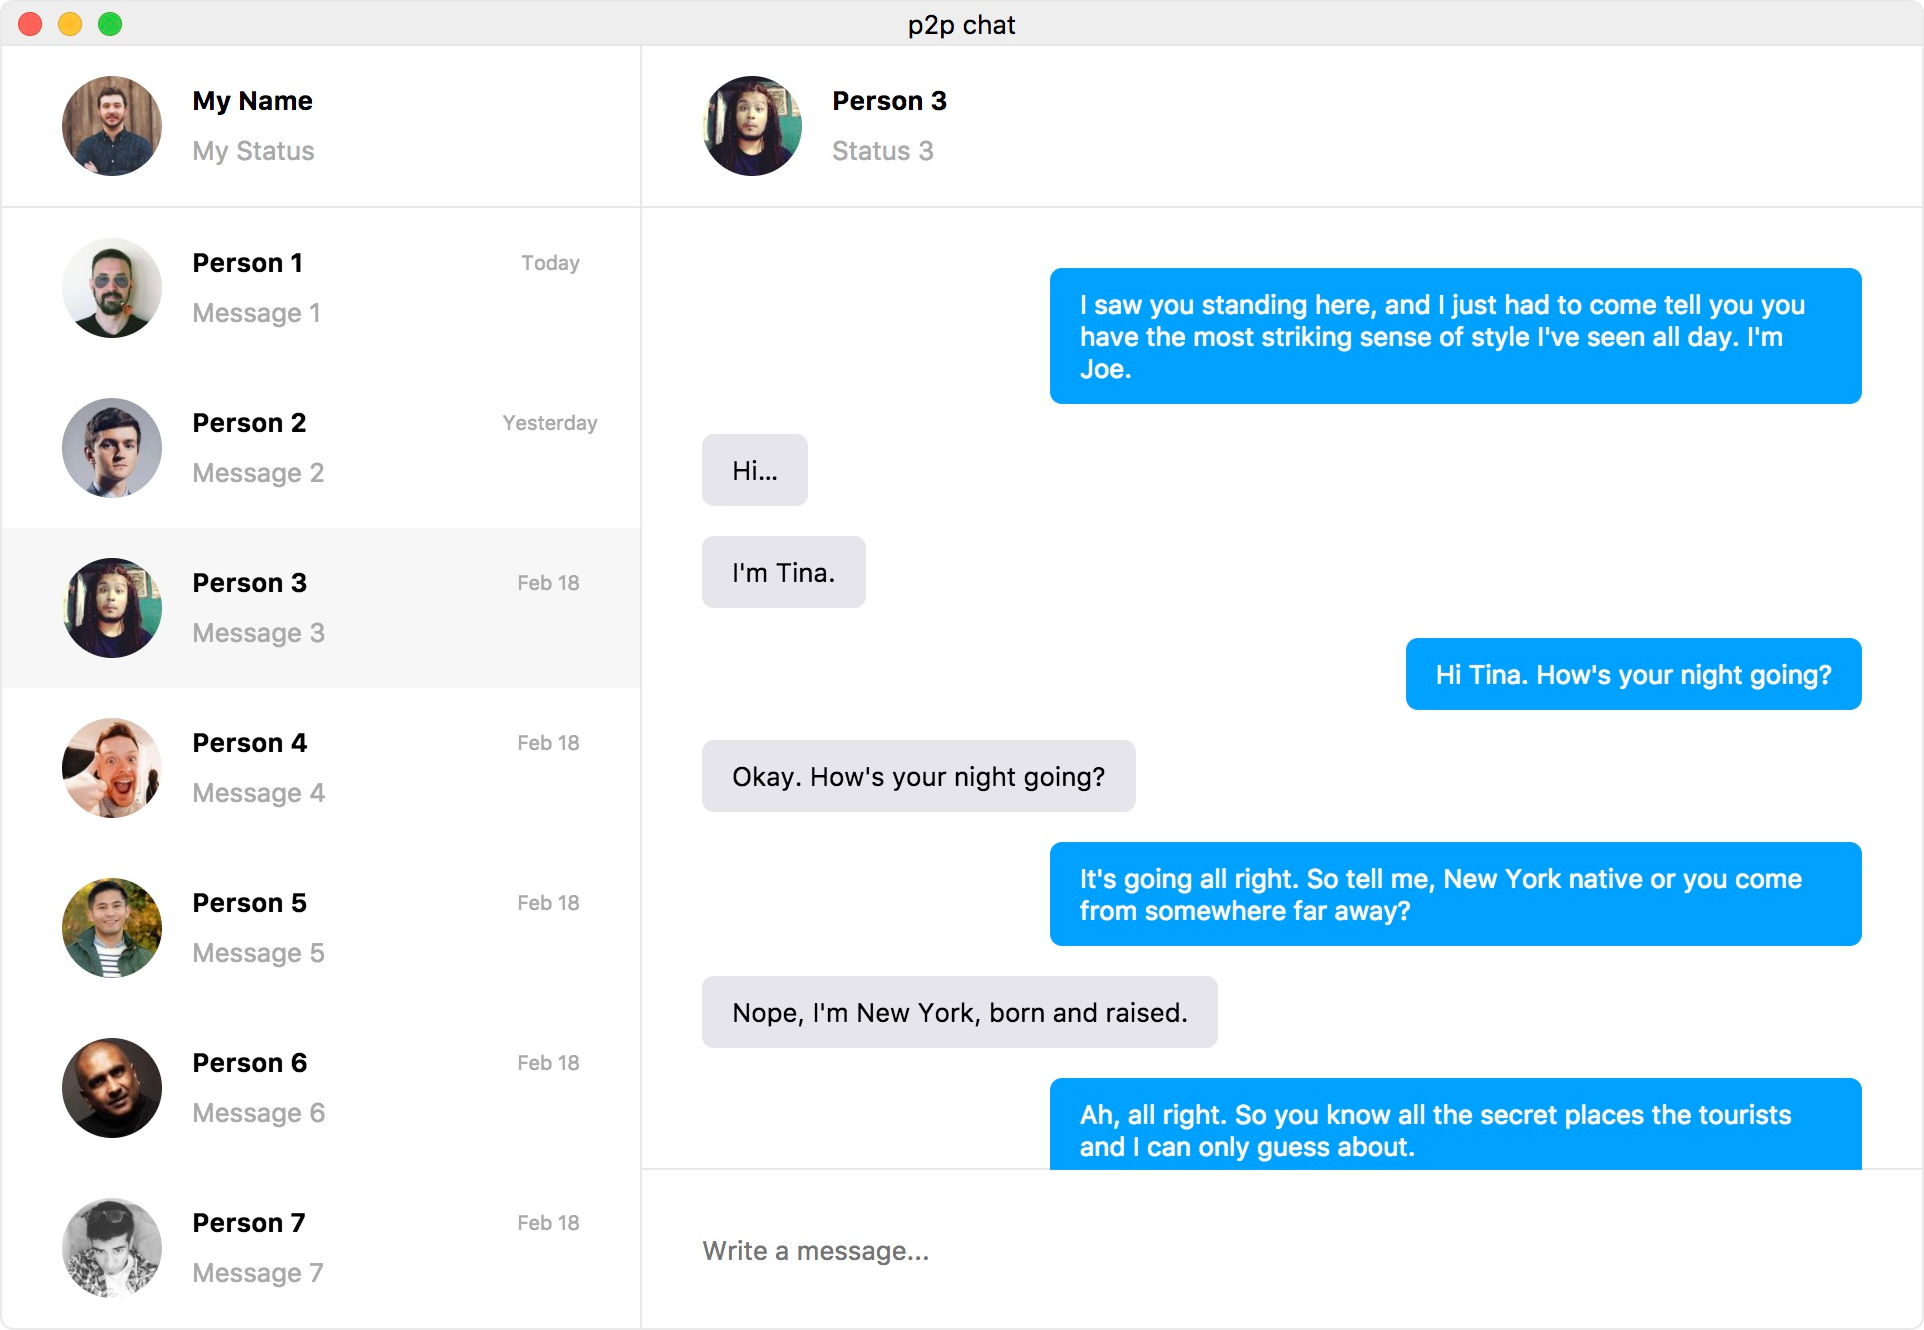
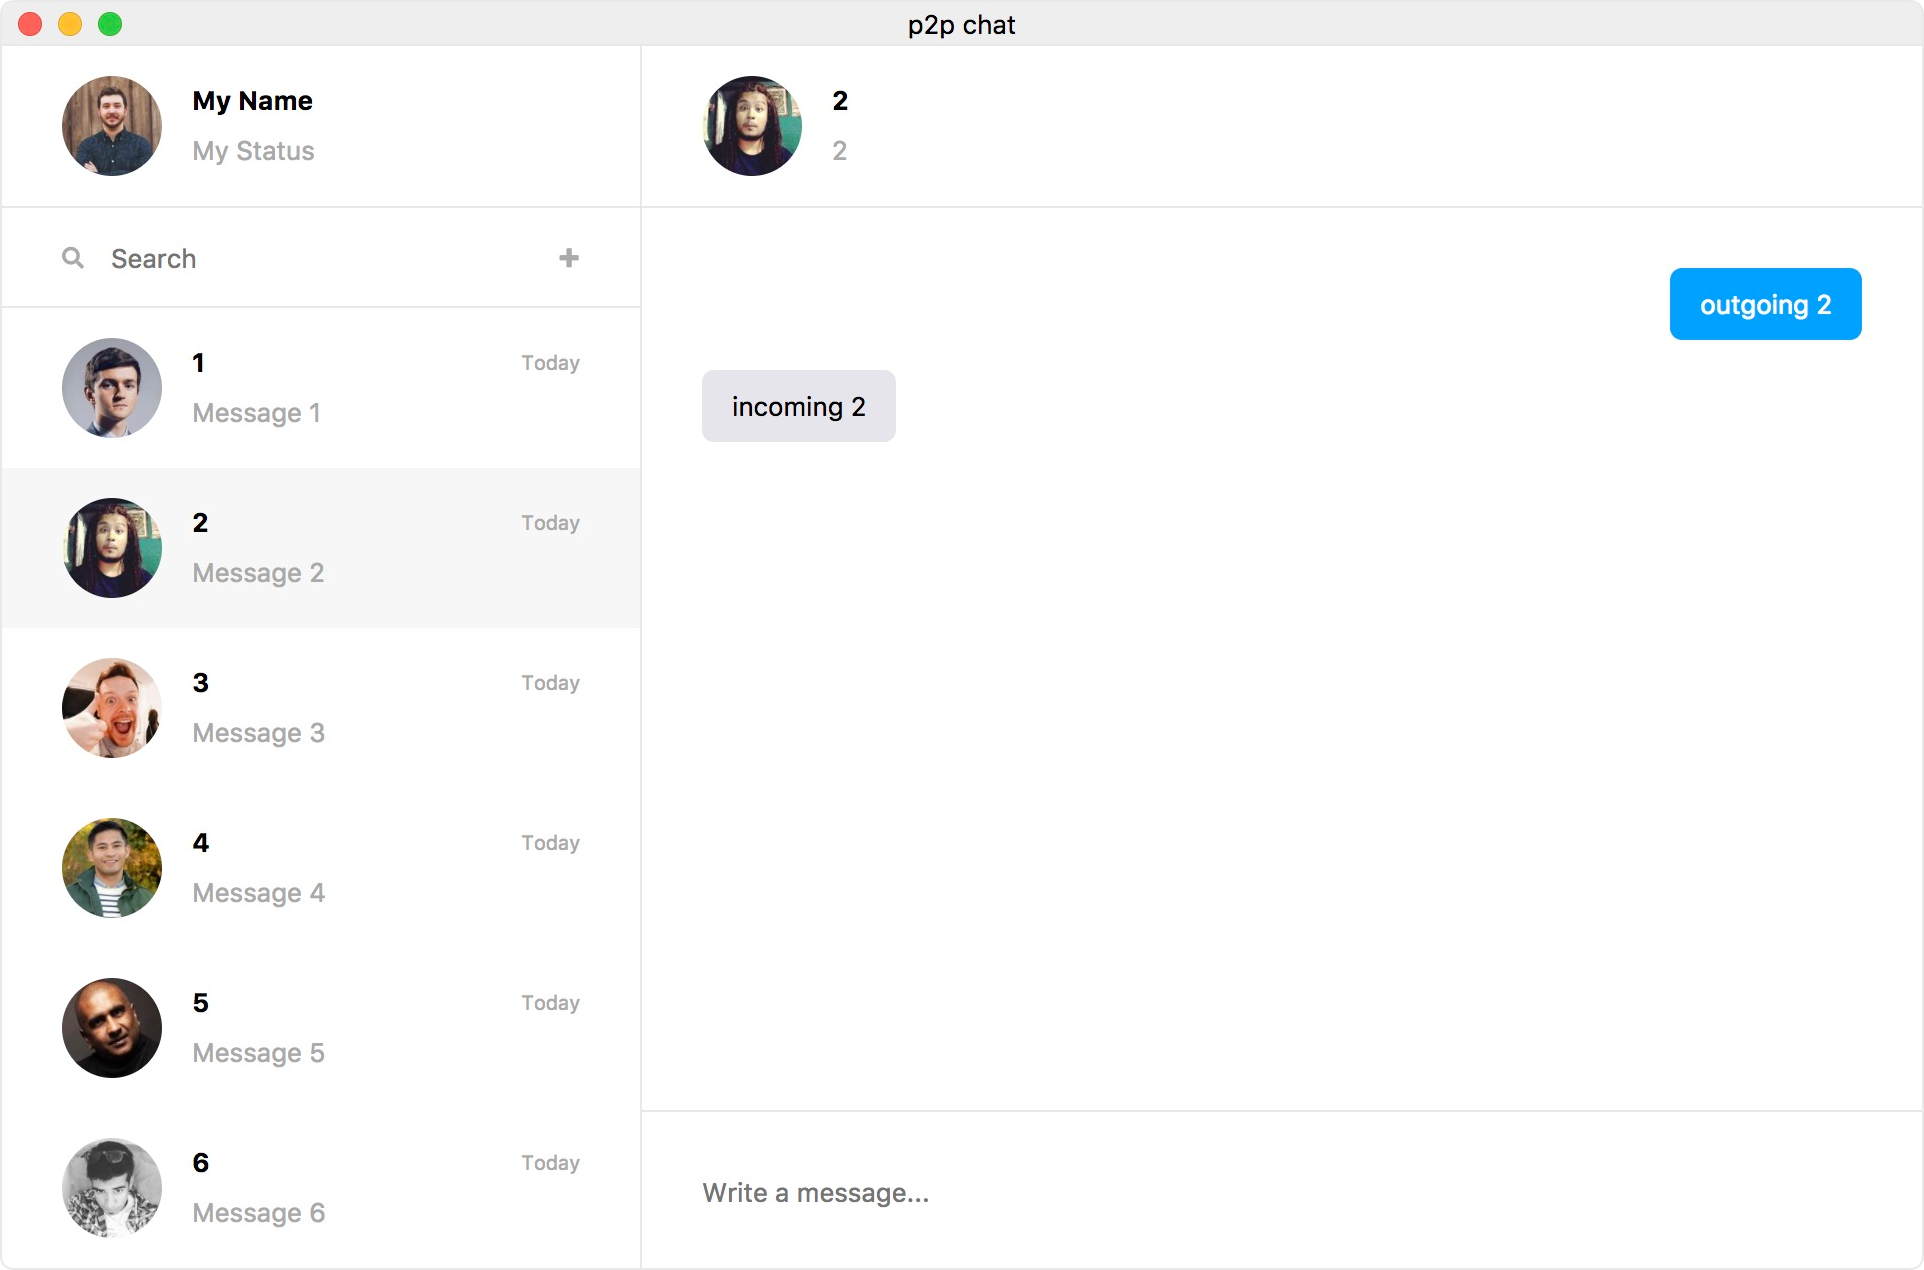
Search bar was added.

diff --git a/src/frontend/css/style.scss b/src/frontend/css/style.scss
@@ -1,11 +1,16 @@
+@import 'fontawesome-all.css';
+
 $titleHeight: 22px;
 $leftWidth: 320px;
 $rightWidth: calc(100% - #{$leftWidth});
-$profileAndWriteHeight: 80px;
-$personsHeight: calc(100% - #{$profileAndWriteHeight});
-$messagesHeight: calc(100% - #{$profileAndWriteHeight});
+$profileHeight: 80px;
+$writeAMessageHeight: 80px;
+$searchInputHeight: 50px;
+$searchIconFontSize: 11px;
+$personsHeight: calc(100% - #{$profileHeight + $searchInputHeight});
+$messagesHeight: calc(100% - #{$profileHeight + $writeAMessageHeight});
 
-$personHeight: $profileAndWriteHeight;
+$personHeight: $profileHeight;
 $personLeftAndRightPadding: 30px;
 $personLeftWidth: 50px;
 $personRightWidth: calc(100% - #{$personLeftWidth});
@@ -14,12 +19,12 @@ $personNameLineHeight: $personLeftWidth / 2;
 $fontSize1: 13px; /* default font size */
 $fontSize2: 10px; /* person's last message time */
 
-$gray1: #eee; /* title background color */
+$gray1: #eeeeee; /* title background color */
 $gray2: #e8e8e8; /* border color */
 $gray3: #f7f7f7; /* selected person background color */
-$gray4: #aaa; /* my status color, person status color, person last message color, person last message time color */
+$gray4: #aaaaaa; /* my status color, person status color, person last message color, person last message time color, add button color */
 $gray5: #e5e5ea; /* incoming message background color */
-$blue1: #39a1f9; /* or #47b7fb, outgoing message background color */
+$blue1: #39a1f9; /* outgoing message background color */
 
 * {
   box-sizing: border-box;
@@ -36,6 +41,10 @@ body {
 
 body, input {
   font-size: $fontSize1;
+}
+
+input {
+  outline: none;
 }
 
 body, html, #root, #root2 {
@@ -130,6 +139,44 @@ body, html, #root, #root2 {
     }
   }
 
+  #search {
+    width: 100%;
+    height: $searchInputHeight;
+    border-bottom: 1px solid $gray2;
+
+    #searchIcon {
+      float: left;
+      color: $gray4;
+      text-align: center;
+      font-size: $searchIconFontSize;
+      width: $searchIconFontSize * 2;
+      height: $searchIconFontSize * 2;
+      line-height: $searchIconFontSize * 2;
+      margin-left: $personLeftAndRightPadding - ($searchIconFontSize / 2);
+      margin-top: (($searchInputHeight - ($searchIconFontSize * 2)) / 2) + 0;
+    }
+
+    input {
+      float: left;
+      height: 100%;
+      border: none;
+      padding: 0 8px;
+      width: calc(100% - #{(($personLeftAndRightPadding - ($searchIconFontSize / 2)) + ($searchIconFontSize * 2)) * 2});
+    }
+
+    #addIcon {
+      float: left;
+      color: $gray4;
+      text-align: center;
+      font-size: $searchIconFontSize;
+      width: $searchIconFontSize * 2;
+      height: $searchIconFontSize * 2;
+      line-height: $searchIconFontSize * 2;
+      margin-right: $personLeftAndRightPadding - ($searchIconFontSize / 2);
+      margin-top: (($searchInputHeight - ($searchIconFontSize * 2)) / 2) + 0;
+    }
+  }
+
   #persons {
     overflow-y: auto;
     height: $personsHeight;
@@ -150,48 +197,43 @@ body, html, #root, #root2 {
     font-size: 40px;
   }
 
-  #messagesContainer {
-    height: $personsHeight;
+  #selectedPersonProfile {
+    border-bottom: 1px solid $gray2;
+  }
 
-    #selectedPersonProfile {
-      border-bottom: 1px solid $gray2;
-    }
+  #messages {
+    overflow-y: auto;
+    height: $messagesHeight;
+    padding: $personLeftAndRightPadding;
 
-    #messages {
-      overflow-y: auto;
-      height: $messagesHeight;
-      padding: $personLeftAndRightPadding;
+    .message {
+      clear: both;
+      padding: 10px 15px;
+      border-radius: 6px;
+      margin-bottom: 15px;
+      max-width: calc(100% - 30%);
 
-      .message {
-        clear: both;
-        padding: 10px 15px;
-        border-radius: 6px;
-        margin-bottom: 15px;
-        max-width: calc(100% - 30%);
+      &.in {
+        float: left;
+        background-color: $gray5;
+      }
 
-        &.in {
-          float: left;
-          background-color: $gray5;
-        }
-
-        &.out {
-          color: #fff;
-          float: right;
-          background-color: $blue1;
-        }
+      &.out {
+        color: #fff;
+        float: right;
+        background-color: $blue1;
       }
     }
   }
 
   #write {
+    height: $writeAMessageHeight;
     border-top: 1px solid $gray2;
-    height: $profileAndWriteHeight;
 
     input {
       width: 100%;
       height: 100%;
       border: none;
-      outline: none;
       padding: 0 $personLeftAndRightPadding;
     }
   }

diff --git a/src/frontend/js/components/App.jsx b/src/frontend/js/components/App.jsx
@@ -2,6 +2,7 @@ import React from 'react'
 import { connect } from 'react-redux'
 
 import MyProfile from './MyProfile'
+import Search from './Search'
 import Persons from './Persons'
 import Messages from './Messages'
 
@@ -33,31 +34,6 @@ class App extends React.Component {
     })
   }
 
-  addFakePerson () {
-    const fakePerson = {
-      id: 21,
-      name: 21,
-      statusMessage: 21,
-      messages: [
-        { direction: 'out', text: 'outgoing ' + 21, time: 1519134357 },
-        { direction: 'in', text: 'incoming ' + 21, time: 1519134358 }
-      ],
-      lastMessage: 'Message ' + 21,
-      lastMessageTime: 'Today',
-      profilePicture: `https://randomuser.me/api/portraits/men/21.jpg`
-    }
-
-    this.props.dispatch({
-      type: 'ADD_PERSON_TO_LIST',
-      payload: fakePerson
-    })
-
-    this.props.dispatch({
-      type: 'CHANGE_SELECTED_PERSON',
-      payload: 21
-    })
-  }
-
   render () {
     const countPersons = Object.keys(this.props.persons).length
 
@@ -71,21 +47,17 @@ class App extends React.Component {
           <div id='left'>
             <MyProfile />
 
+            <Search />
+
             <Persons />
           </div>
 
           {(countPersons) ? (
-            <div id='right'>
-              <Messages />
-
-              <div id='write'>
-                <input type='text' placeholder='Write a message...' />
-              </div>
-            </div>
+            <Messages />
           ) : (
             <div id='right'>
               <div className='acjc'>
-                <div id='addSomeone' onClick={this.addFakePerson.bind(this)}>
+                <div id='addSomeone'>
                   Add someone...
                 </div>
               </div>

diff --git a/src/frontend/js/components/Search.jsx b/src/frontend/js/components/Search.jsx
@@ -1,0 +1,51 @@
+import React from 'react'
+import { connect } from 'react-redux'
+
+@connect((store) => {
+  return {
+    persons: store.persons.list,
+    selectedPersonId: store.persons.selectedPersonId
+  }
+})
+
+class Search extends React.Component {
+  addFakePerson () {
+    const newPersonId = this.props.persons.length + 1
+    const fakePerson = {
+      id: newPersonId,
+      name: newPersonId,
+      statusMessage: newPersonId,
+      messages: [
+        { direction: 'out', text: 'outgoing ' + newPersonId, time: 1519134357 },
+        { direction: 'in', text: 'incoming ' + newPersonId, time: 1519134358 }
+      ],
+      lastMessage: 'Message ' + newPersonId,
+      lastMessageTime: 'Today',
+      profilePicture: `https://randomuser.me/api/portraits/men/${newPersonId}.jpg`
+    }
+
+    this.props.dispatch({
+      type: 'ADD_PERSON_TO_LIST',
+      payload: fakePerson
+    })
+
+    this.props.dispatch({
+      type: 'CHANGE_SELECTED_PERSON',
+      payload: newPersonId
+    })
+  }
+
+  render () {
+    return (
+      <div id='search'>
+        <i id='searchIcon' className='fa fa-search' />
+
+        <input type='text' placeholder='Search' />
+
+        <i id='addIcon' className='fa fa-plus' onClick={this.addFakePerson.bind(this)} />
+      </div>
+    )
+  }
+}
+
+export default Search

diff --git a/src/frontend/js/components/Messages.jsx b/src/frontend/js/components/Messages.jsx
@@ -22,7 +22,7 @@ class Messages extends React.Component {
     })
 
     return (
-      <div id='messagesContainer'>
+      <div id='right'>
         <div id='selectedPersonProfile'>
           <div className='person'>
             <div className='personLeft'>
@@ -46,6 +46,10 @@ class Messages extends React.Component {
 
         <div id='messages'>
           {messages}
+        </div>
+
+        <div id='write'>
+          <input type='text' placeholder='Write a message...' />
         </div>
       </div>
     )

diff --git a/src/electron/main.js b/src/electron/main.js
@@ -10,7 +10,7 @@ const createWindow = () => {
   win = new BrowserWindow({
     show: false,
     width: 960,
-    height: 663,
+    height: 633,
     titleBarStyle: 'hidden',
     backgroundColor: '#fff'
   })
